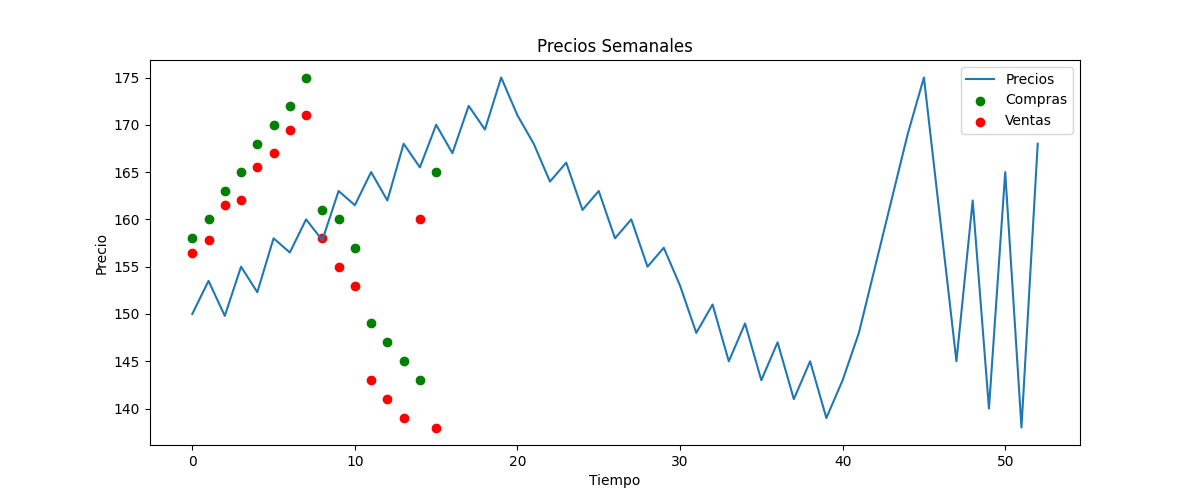
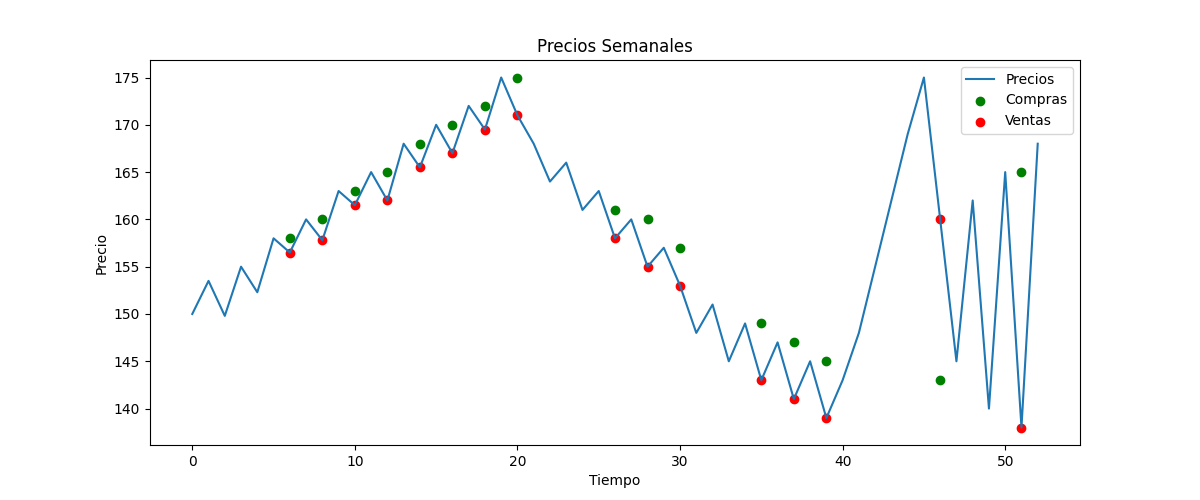
Correccion del posicionamiento de puntos de compra/venta en grafico de precios

diff --git a/SRC/visualizacion.py b/SRC/visualizacion.py
@@ -52,11 +52,15 @@ class Visualizacion:
         compras = [datos["precio_compra"] for datos in self.historial]
         ventas = [datos["precio_venta"] for datos in self.historial]
         
+        fecha_a_indice = {datos["fecha"]: i for i, datos in enumerate(self.datos)}
+        indices_compras = [fecha_a_indice[op["fecha"]] for op in self.historial]
+        indices_ventas = [fecha_a_indice[op["fecha"]] for op in self.historial]
+        
         # Crear figura con plt
         plt.figure(figsize=(12, 5))
         plt.plot(cierre, label="Precios")
-        plt.scatter(range(len(compras)), compras, color='green', label="Compras")
-        plt.scatter(range(len(ventas)), ventas , color='red', label="Ventas")
+        plt.scatter(indices_compras, compras, color='green', label="Compras")
+        plt.scatter(indices_ventas, ventas, color='red', label="Ventas")
         plt.xlabel("Tiempo")
         plt.ylabel("Precio")
         plt.title("Precios Semanales")
